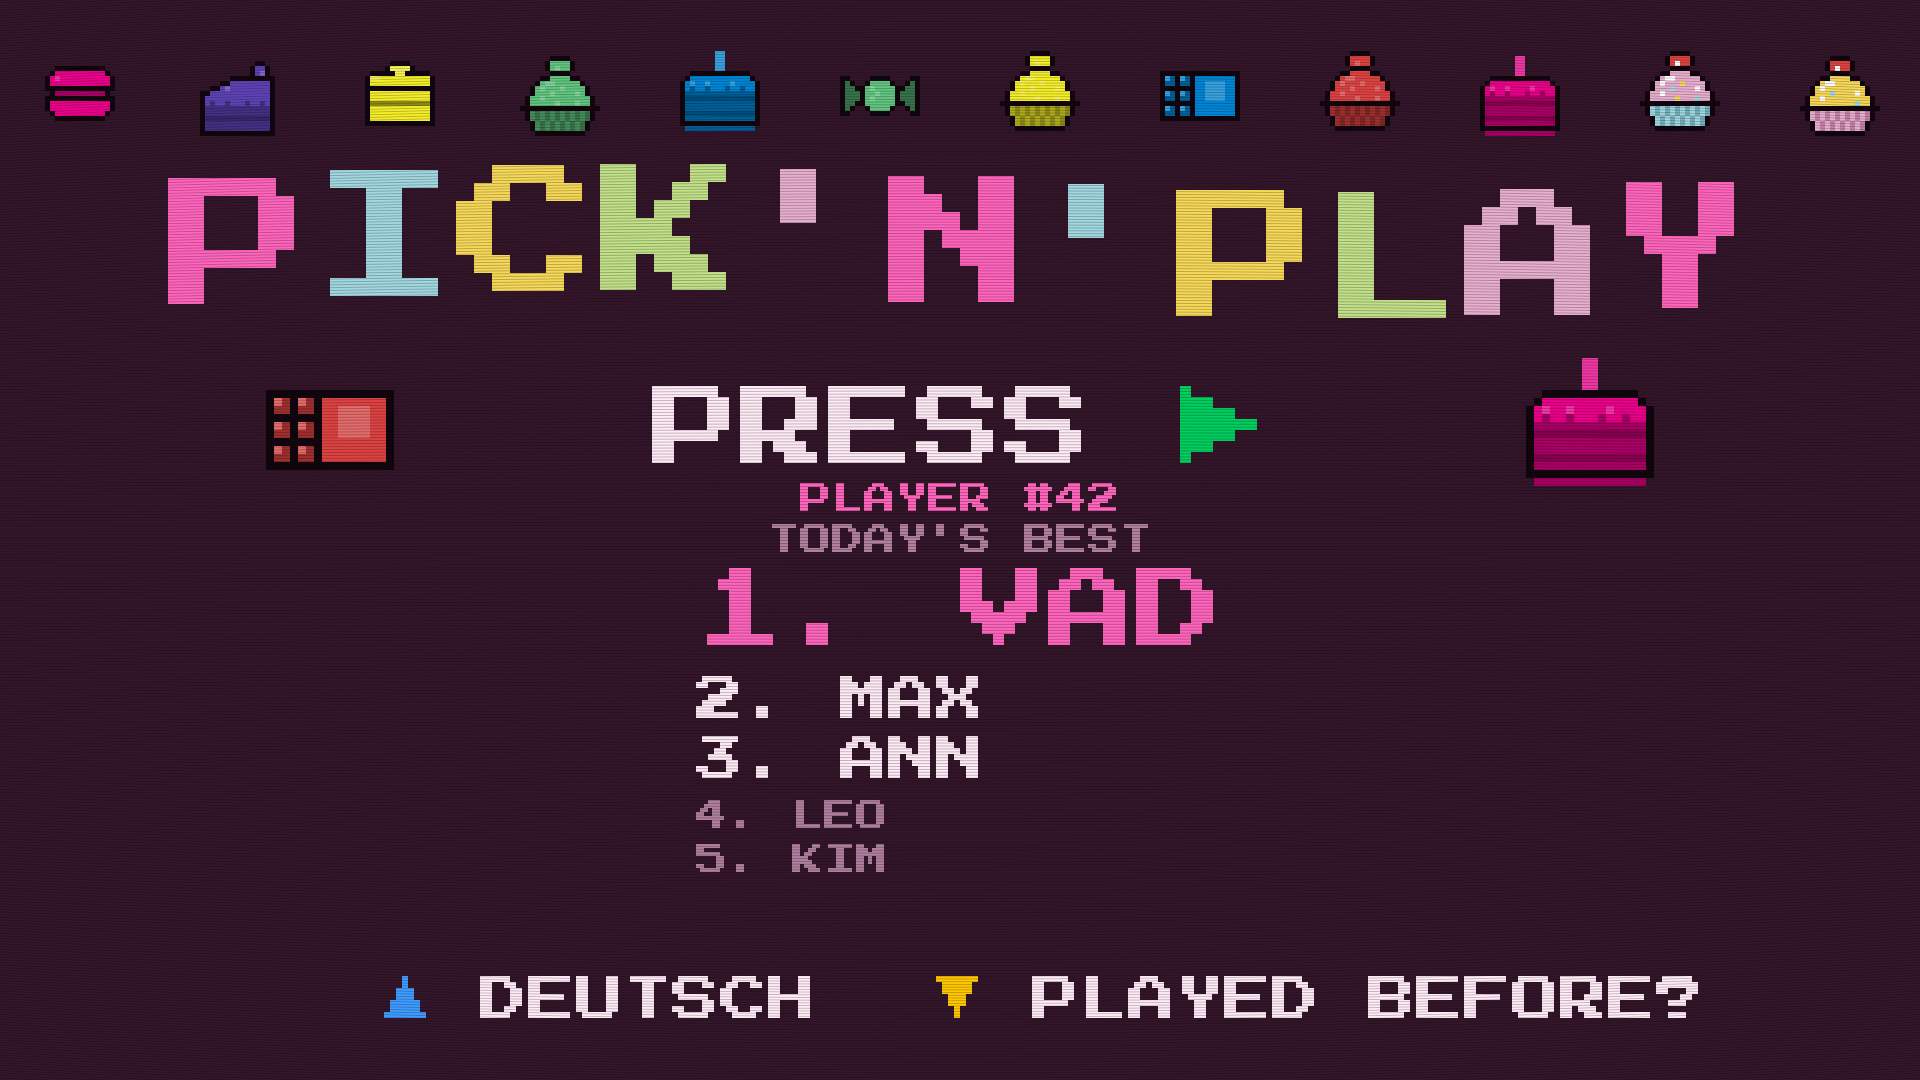
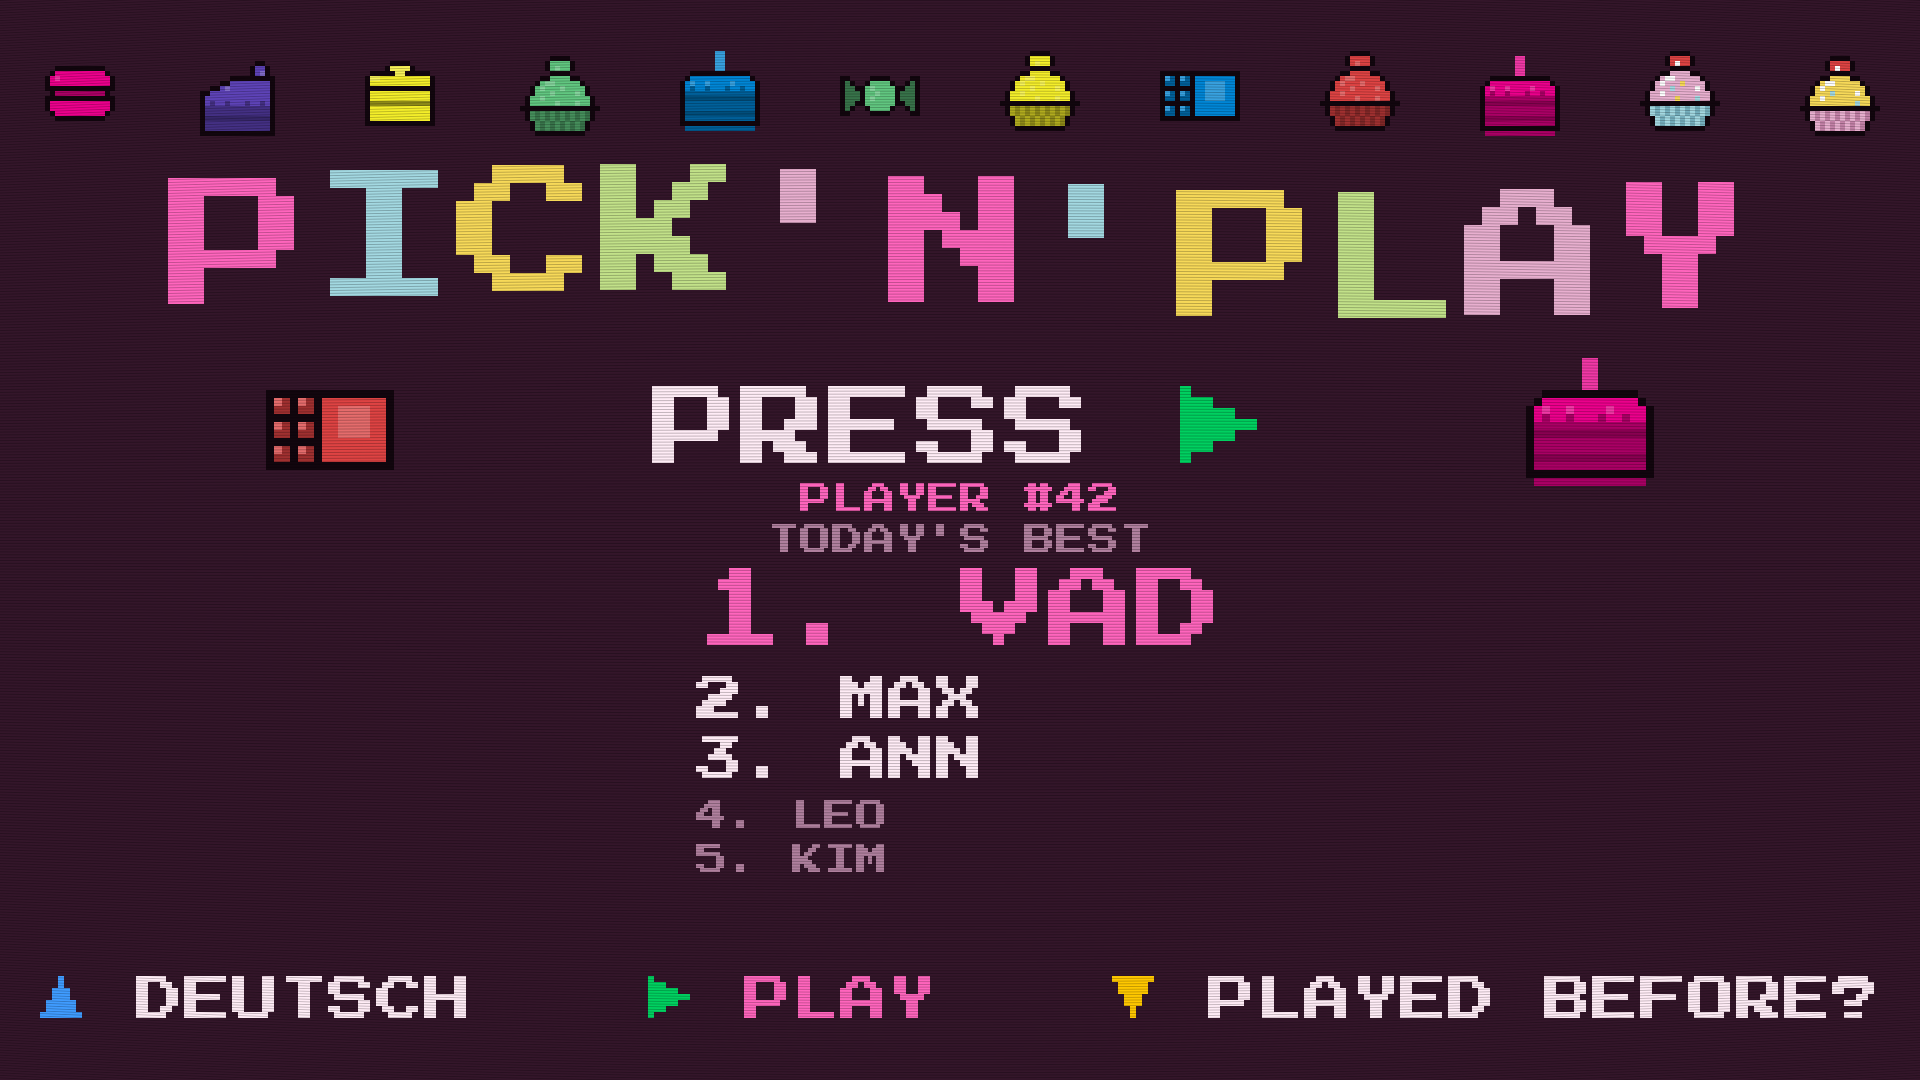
feat: idle footer shows ▶ PLAY between the other two hints, Oskar asks to plan the treats, pnp-winners lists the best rounds for the prize

Changed region(s): [[0.0, 0.8861, 0.9688, 0.9472]]

diff --git a/game/themes/sugar_rush.py b/game/themes/sugar_rush.py
@@ -53,7 +53,7 @@ CANDY = ((255, 101, 189),   # ACCENT
 # baker needs their okay first.
 TEXT = {
     "en": dict(
-        press="PRESS ▶", best="TODAY'S BEST",
+        press="PRESS ▶", best="TODAY'S BEST", play="▶ PLAY",
         lang="▲ DEUTSCH", lang_ok="▲ NOCHMAL FÜR DEUTSCH",
         again="▼ PLAYED BEFORE?",
         ask_name="WHAT'S YOUR NAME?", which="WHICH {name} ARE YOU?",
@@ -72,7 +72,8 @@ TEXT = {
         skip="▶ SKIP", skip_ok="▶ AGAIN TO SKIP", quit="◀ QUIT", quit_ok="◀ AGAIN TO QUIT",
         order_head="BUDGET",
         order="HI! IT'S MY BIRTHDAY, AND I'VE GOT EXACTLY {goal}.|"
-              "CAN YOU PICK ME TREATS THAT ADD UP TO EXACTLY {goal}?",
+              "CAN YOU PICK ME TREATS THAT ADD UP TO EXACTLY {goal}?|"
+              "LOOK AT THE PRICES UP TOP AND PLAN WHICH ONES YOU'LL TAKE!",
         go="▶ START", add="ADD", over="OVER BUDGET", hold="HANDS OFF! {n}",
         perfect="PERFECT", player="PLAYER #{no}",
         score="SCORE", rank="#{place} OF {count} TODAY",
@@ -83,7 +84,7 @@ TEXT = {
                "SPOT ON! BEST BIRTHDAY EVER!"),
     ),
     "de": dict(
-        press="▶ SPIELEN", best="DIE BESTEN VON HEUTE",
+        press="DRÜCK ▶", best="DIE BESTEN VON HEUTE", play="▶ SPIELEN",
         lang="▲ ENGLISH", lang_ok="▲ AGAIN FOR ENGLISH",
         again="▼ SCHON GESPIELT?",
         ask_name="WIE HEIßT DU?", which="WANN WARST DU DA?",
@@ -107,7 +108,8 @@ TEXT = {
         quit_ok="◀ NOCHMAL ZUM ABBRECHEN",
         order_head="BUDGET",
         order="HALLO! ICH HAB HEUTE GEBURTSTAG UND GENAU {goal} DABEI.|"
-              "SUCHST DU MIR SÜßIGKEITEN FÜR GENAU {goal} AUS?",
+              "SUCHST DU MIR SÜßIGKEITEN FÜR GENAU {goal} AUS?|"
+              "SCHAU OBEN AUF DIE PREISE UND PLAN SCHON MAL, WELCHE DU NIMMST!",
         go="▶ LOS GEHT'S", add="ES FEHLEN NOCH", over="ÜBER BUDGET",
         hold="NICHT MEHR ANFASSEN! {n}",
         perfect="PERFEKT", player="SPIELER #{no}",

diff --git a/game/scenes.py b/game/scenes.py
@@ -542,8 +542,18 @@ class IdleScene(SceneBase):
         for i, (name, _) in enumerate(self.top):
             size, color, y = self.PODIUM[i]
             draw_left(screen, f[size], f"{i + 1}. {name}", x, y, color)
-        footer(screen, f, self.t("lang"), self.t("again"),
-               note=self.t("lang_ok") if self.ask > 0 else None)
+        # Three hints, ▶ in the middle (29.9., fair): visitors read the
+        # bottom row and missed the ▶ in the middle of the screen. Left and
+        # right hug the edges so the German "▼ SCHON GESPIELT?" leaves room.
+        if self.ask > 0:
+            footer(screen, f, note=self.t("lang_ok"))
+        else:
+            w = f["small"].size("A")[0]
+            left, mid, right = self.t("lang"), self.t("play"), self.t("again")
+            x0, x1 = 40 + w * len(left), WIDTH - 40 - w * len(right)
+            draw_hint(screen, f["small"], left, x0 - w * len(left) / 2, FOOTER_Y, WHITE)
+            draw_hint(screen, f["small"], mid, (x0 + x1) / 2, FOOTER_Y, ACCENT)
+            draw_hint(screen, f["small"], right, x1 + w * len(right) / 2, FOOTER_Y, WHITE)
         # Right under PRESS: that is the number pressing gets you. tiny fits
         # the gap to BEST, small does not (layout test).
         draw(screen, f["tiny"], self.t("player", no=self.no), 960, 499, ACCENT)

diff --git a/game/db.py b/game/db.py
@@ -162,7 +162,18 @@ class DB:
         w.writerows(r for r in self._best() if isinstance(r[0], int))
 
 
-if __name__ == "__main__" and sys.argv[1:] == ["export"]:
+if __name__ == "__main__" and sys.argv[1:2] == ["winners"]:
+    # pnp-winners [n]: the best rounds for handing out the prize. Ties on
+    # score break by who got there first (ts), like the leaderboard.
+    n = int(sys.argv[2]) if sys.argv[2:] else 10
+    rows = DB().con.execute("SELECT player, name, off, dist, secs, first, ts "
+                            "FROM runs WHERE dist IS NOT NULL ORDER BY rowid").fetchall()
+    rows = sorted(rows, key=lambda r: -points(r[2], r[3], r[4] or 0.0))[:n]
+    print(f"{'#':>4} {'name':4} {'score':>5} {'off':>6} {'left s':>6} {'1st s':>5}  ts (Pi clock, UTC)")
+    for player, name, off, dist, secs, first, ts in rows:
+        print(f"{player or '-':>4} {name:4} {points(off, dist, secs or 0.0):>5} "
+              f"{off / 10:>6.2f} {secs or 0:>6.1f} {first or 0:>5.1f}  {ts}")
+elif __name__ == "__main__" and sys.argv[1:] == ["export"]:
     # After the show, on the Pi:  uv run game/db.py export > players.csv
     DB().export(sys.stdout)
 elif __name__ == "__main__":
